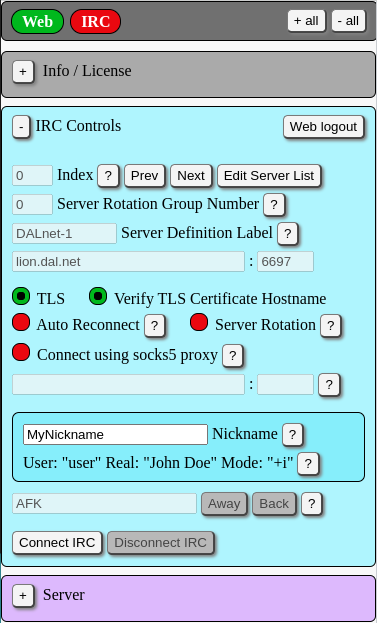
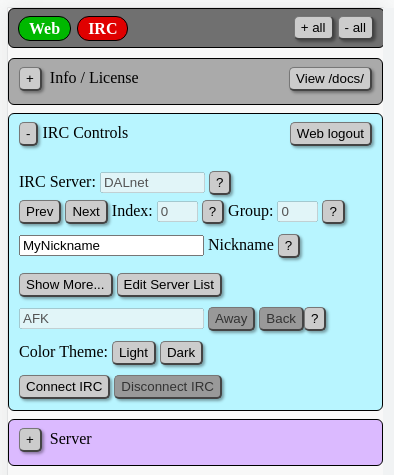
Update /docs/ documentation to reflect changes

diff --git a/secure-minify/webclient.html b/secure-minify/webclient.html
@@ -83,9 +83,9 @@ hidden><div><button id="connectShowLessButton">Show Less...</button> <a href="/i
 <span class="font120">User Info (Read only)</span> <button id="userRealModeInfoBtn">?</button></div><div class="white-info-div" id="userRealModeInfo" hidden><p>
 These are the username, real name, and initial modes used to connect to the IRC network. To modify these values, click the [Edit Server List] button.</p><ul><li>
 User: This is the backup user name to be used if the identd service is not running, such as &quot;mynick!~user@example.com&quot;</li><li>
-Real: This is the content of the name field displayed in the /WHOIS response from the IRC server. It may be any made up value.</li><li>
+Real name: This is the content of the name field displayed in the /WHOIS response from the IRC server. It may be any made up value.</li><li>
 Mode: This is a string used to set the initial user mode during connect to the IRC network. Suggest invisible as +i.</li></ul><p>Click the [?] again to close this message.</p></div><div class="vh5">
-</div><div class="indent20"><div class="vh10"></div><div class="button-div"><span>User: </span><span id="userNameInputId"></span></div><div class="button-div"><span>Real:</span> <span 
+</div><div class="indent20"><div class="vh10"></div><div class="button-div"><span>User: </span><span id="userNameInputId"></span></div><div class="button-div"><span>Real name:</span> <span 
 id="realNameInputId"></span></div><div class="button-div"><span>Mode:</span> <span id="userModeInputId"></span></div></div><div class="vh10"></div><div class="font120">Server Info (Read Only)</div>
 <div class="vh5"></div><div class="indent20"><div class="button-div"><input type="text" id="ircServerAddrInputId" size="26" value="" disabled="disabled"> <span>:</span> <input type="text" 
 id="ircServerPortInputId" size="4" value="" disabled="disabled"></div><div class="vh10"></div><div class="button-div"><div id="ircServerTlsEnable"><div id="ircServerTlsEnableDot"></div></div><span 

diff --git a/secure/webclient.html b/secure/webclient.html
@@ -350,7 +350,7 @@ a raw command to the IRC server directly.
                     User: This is the backup user name to be used if the identd service is not running, such as &quot;mynick!~user@example.com&quot;
                   </li>
                   <li>
-                    Real: This is the content of the name field displayed in the /WHOIS response from the IRC server. It may be any made up value.
+                    Real name: This is the content of the name field displayed in the /WHOIS response from the IRC server. It may be any made up value.
                   </li>
                   <li>
                     Mode: This is a string used to set the initial user mode during connect to the IRC network. Suggest invisible as +i.
@@ -368,7 +368,7 @@ a raw command to the IRC server directly.
                   <span id="userNameInputId"></span>
                 </div>
                 <div class="button-div">
-                  <span>Real:</span>
+                  <span>Real name:</span>
                   <span id="realNameInputId"></span>
                 </div>
                 <div class="button-div">

diff --git a/docs/index.html b/docs/index.html
@@ -86,13 +86,16 @@
               The [Next] and [Prev] buttons are used to cycle through the 
               list of available IRC server definitions.
             </p><p>
+              The buttons [light] and [dark] can be used to switch between color themes.
+              
+            </p><p>
               After selecting a server, the next step is to connect to IRC with 
               your nickname using either the [Connect-IRC] button or 
               you can tap on the red [IRC] status icon at the top.
             </p>
           </div>
           <div class="image-photo">
-            <img src=images/irc-login.png width="377" height="623"alt="IRC login form image">
+            <img src=images/irc-login.png width="394" height="475"alt="IRC login form image">
           </div>
         </div>
 

diff --git a/docs/server-config.html b/docs/server-config.html
@@ -88,7 +88,7 @@
             </p>
           </div>
           <div class="image-photo">
-            <img src=images/server-list-button.png width="436" height="302"alt="Server List Edit Button">
+            <img src=images/server-list-button.png width="385" height="262"alt="Server List Edit Button">
           </div>
         </div>
 

diff --git a/CHANGELOG.md b/CHANGELOG.md
@@ -27,6 +27,7 @@ or .classList.remove() to switch between light and dark.
 - Created multiple new CSS class styles for light theme color and dark theme colors.
 - Added javascript to exchange CSS class names for light theme and dark theme.
 - Reorganized the layout of the "IRC Controls" panel. It was cluttered, confusing, and show too many read only values by default.
+- Updated /docs/ folder with new screen captures of the IRC Controls panel.
 
 ## [v0.2.47](https://github.com/cotarr/irc-hybrid-client/releases/tag/v0.2.47) 2023-06-29
 
